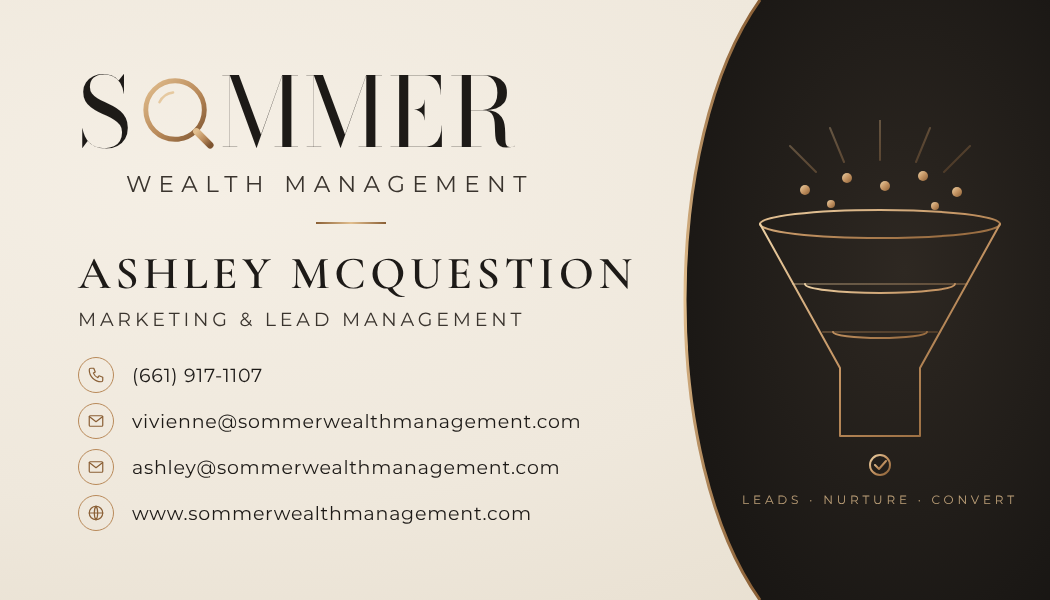
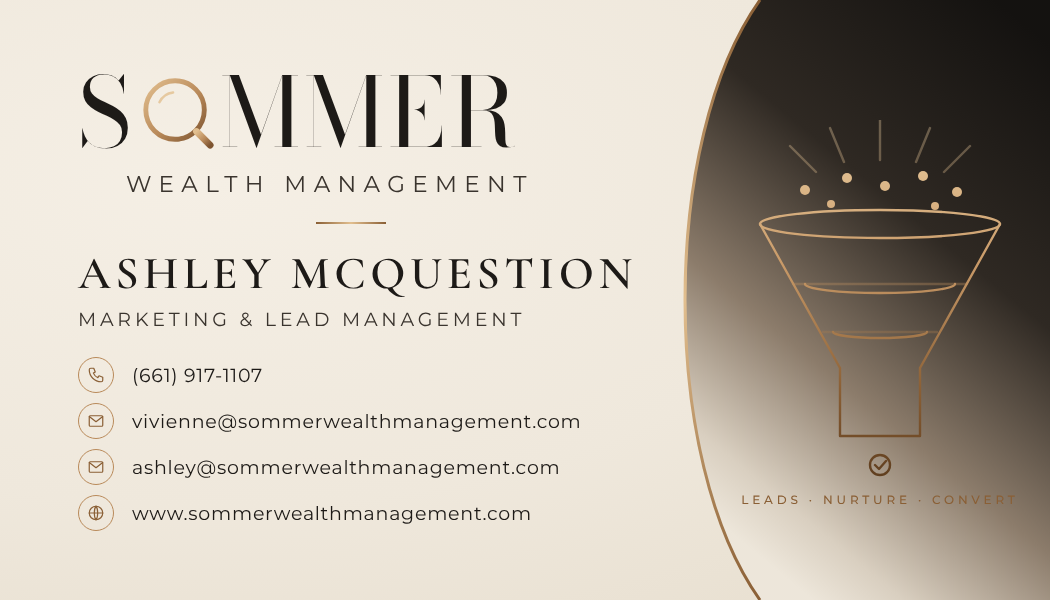
Business card options: black-to-cream ombre panel
Claude-Session: https://claude.ai/code/session_01K564gnvat9hMChbUCEqxMk

Changed region(s): [[0.64, 0.12, 1.0, 1.0], [0.9143, 0.36, 0.9752, 0.39]]

diff --git a/business-card/card.html b/business-card/card.html
@@ -68,11 +68,15 @@
 
   /* optional illustrations for the front panel (?art=funnel|target|network) */
   .art { position: absolute; left: 735px; top: 120px; width: 290px; height: 360px; display: none; }
-  .art svg { width: 100%; height: 100%; fill: none; stroke: url(#artGold); stroke-width: 2; stroke-linecap: round; stroke-linejoin: round; }
+  .art svg { width: 100%; height: 100%; fill: none; stroke: url(#artGold); stroke-width: 2.4; stroke-linecap: round; stroke-linejoin: round; }
   .art .fill { fill: url(#artGold); stroke: none; }
   .art .faint { opacity: .35; }
   .art-label { position: absolute; left: 735px; width: 290px; top: 492px; text-align: center; font-size: 12px; letter-spacing: .32em; color: var(--gold-light); opacity: .8; display: none; }
   body[data-art] #front .monogram { display: none; }
+  .panel-ombre { display: none; }
+  body[data-art] .panel-dark { display: none; }
+  body[data-art] .panel-ombre { display: inline; }
+  body[data-art] .art-label { color: var(--gold-dark); opacity: 1; font-weight: 500; }
   body[data-art="funnel"] .art.funnel, body[data-art="target"] .art.target, body[data-art="network"] .art.network,
   body[data-art] .art-label { display: block; }
 </style>
@@ -89,8 +93,12 @@
       <radialGradient id="darkFill" cx="0.6" cy="0.45" r="0.8">
         <stop offset="0" stop-color="#2e2822"/><stop offset="1" stop-color="#151311"/>
       </radialGradient>
+      <linearGradient id="ombreFill" x1="0.85" y1="0" x2="0.35" y2="1">
+        <stop offset="0" stop-color="#141210"/><stop offset="0.38" stop-color="#2f2923"/><stop offset="0.68" stop-color="#8c7c6b"/><stop offset="0.9" stop-color="#d9cfc0"/><stop offset="1" stop-color="#ede6da"/>
+      </linearGradient>
     </defs>
-    <path d="M 760 0 C 660 140, 660 460, 760 600 L 1050 600 L 1050 0 Z" fill="url(#darkFill)"/>
+    <path d="M 760 0 C 660 140, 660 460, 760 600 L 1050 600 L 1050 0 Z" fill="url(#darkFill)" class="panel-dark"/>
+    <path d="M 760 0 C 660 140, 660 460, 760 600 L 1050 600 L 1050 0 Z" fill="url(#ombreFill)" class="panel-ombre"/>
     <path d="M 760 0 C 660 140, 660 460, 760 600" fill="none" stroke="url(#goldStroke)" stroke-width="3"/>
   </svg>
 
@@ -102,7 +110,7 @@
 
 
   <svg width="0" height="0" style="position:absolute"><defs>
-    <linearGradient id="artGold" x1="0" y1="0" x2="1" y2="1"><stop offset="0" stop-color="#ecd0a4"/><stop offset=".5" stop-color="#c49463"/><stop offset="1" stop-color="#8a5f35"/></linearGradient>
+    <linearGradient id="artGold" gradientUnits="userSpaceOnUse" x1="0" y1="0" x2="0" y2="360"><stop offset="0" stop-color="#ecd0a4"/><stop offset=".4" stop-color="#c99a68"/><stop offset=".75" stop-color="#8a5f35"/><stop offset="1" stop-color="#5e3d1e"/></linearGradient>
   </defs></svg>
 
   <!-- 1. Lead funnel -->
